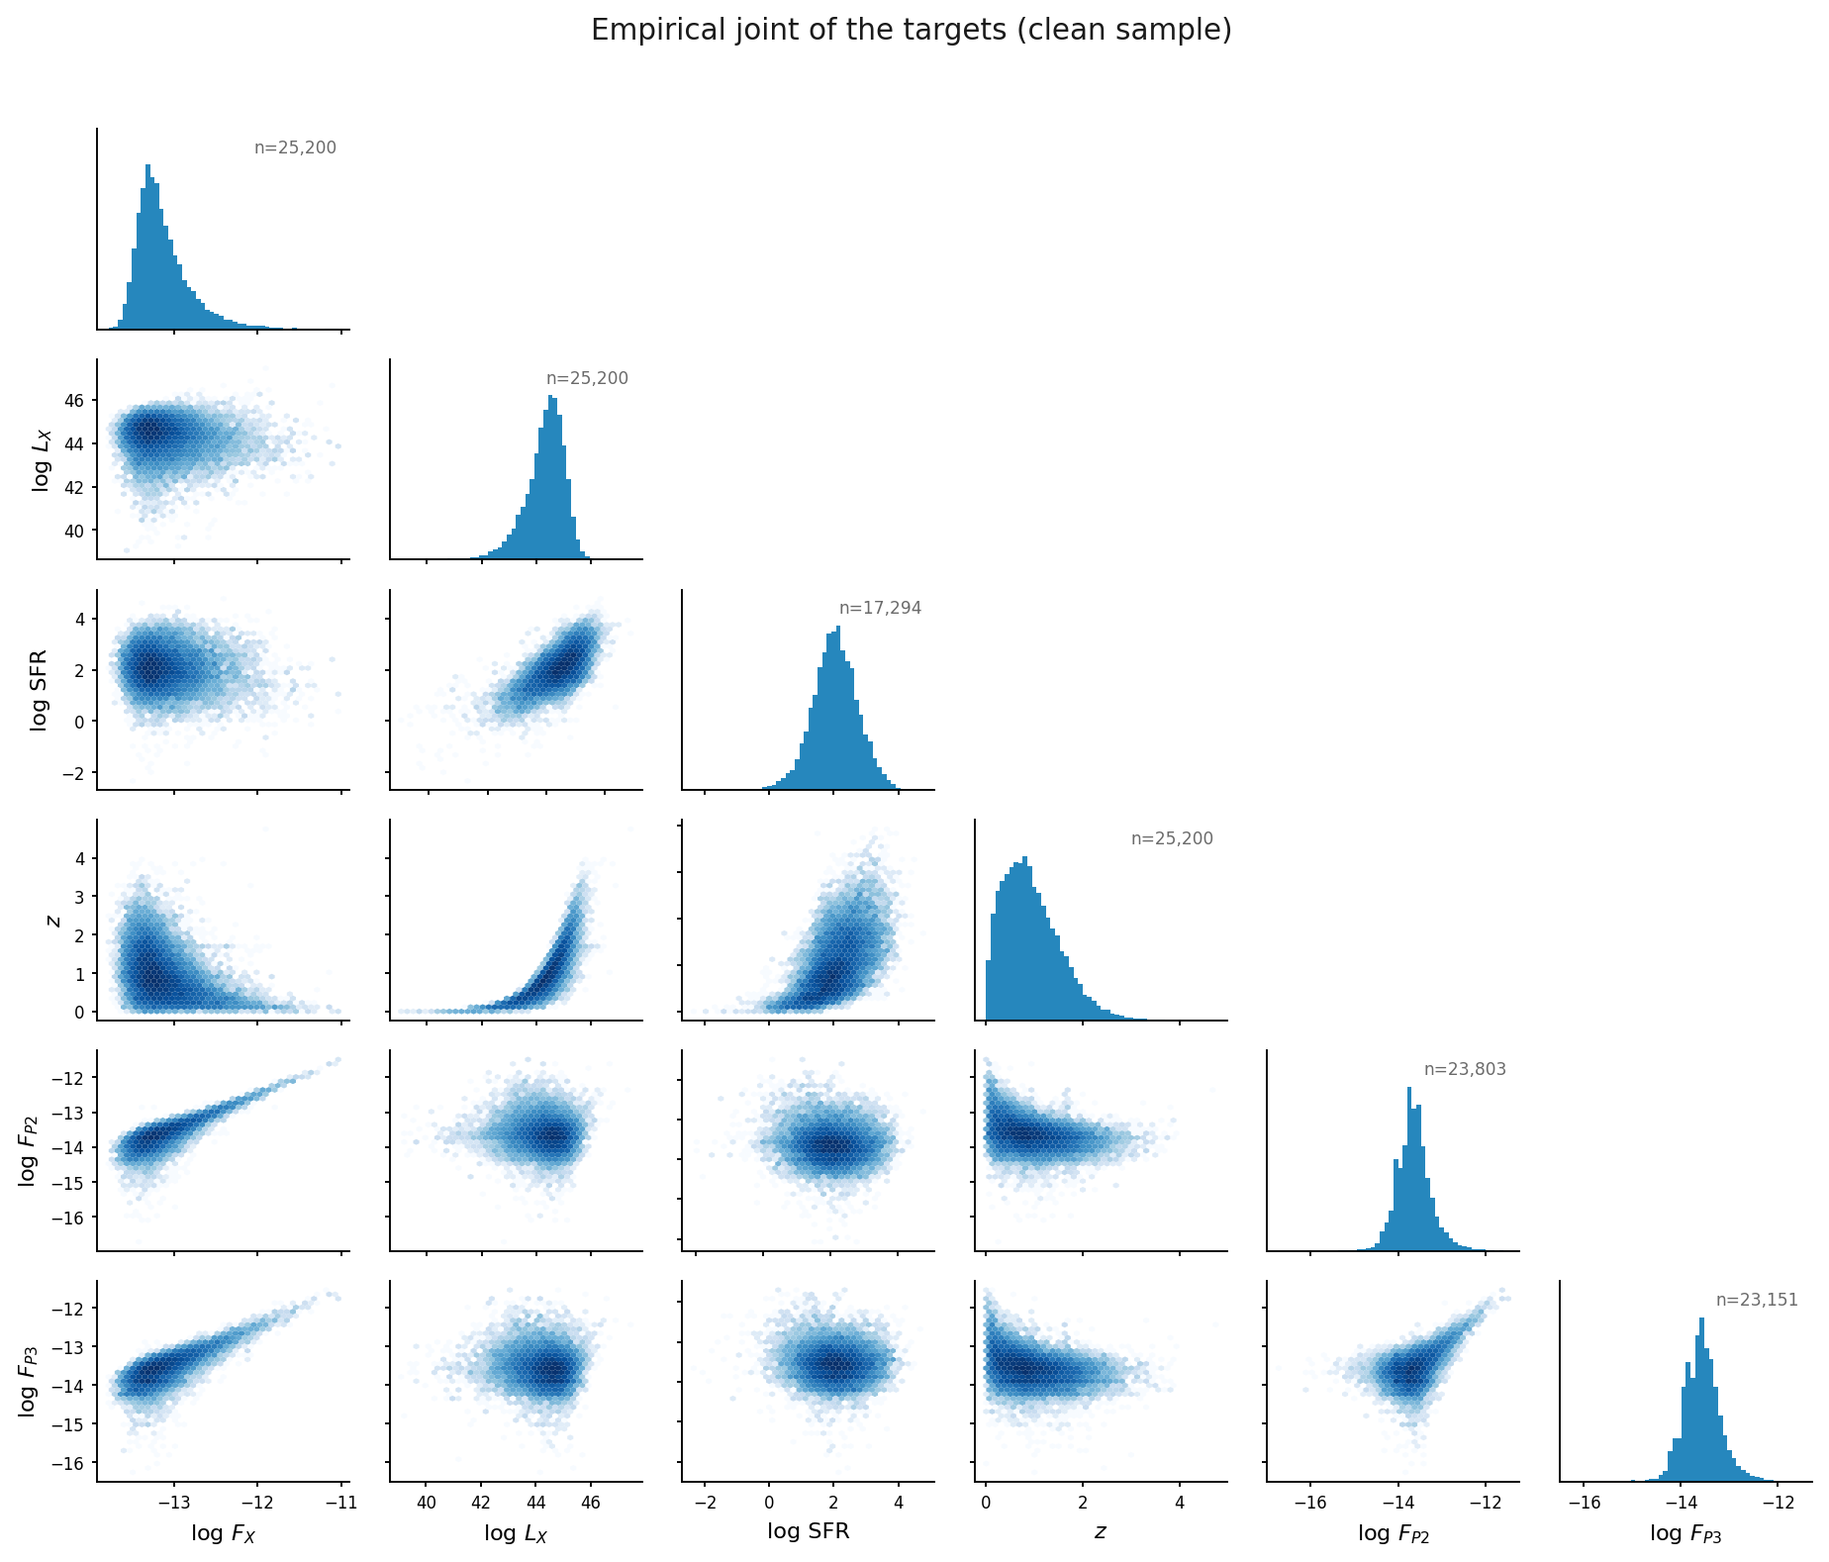
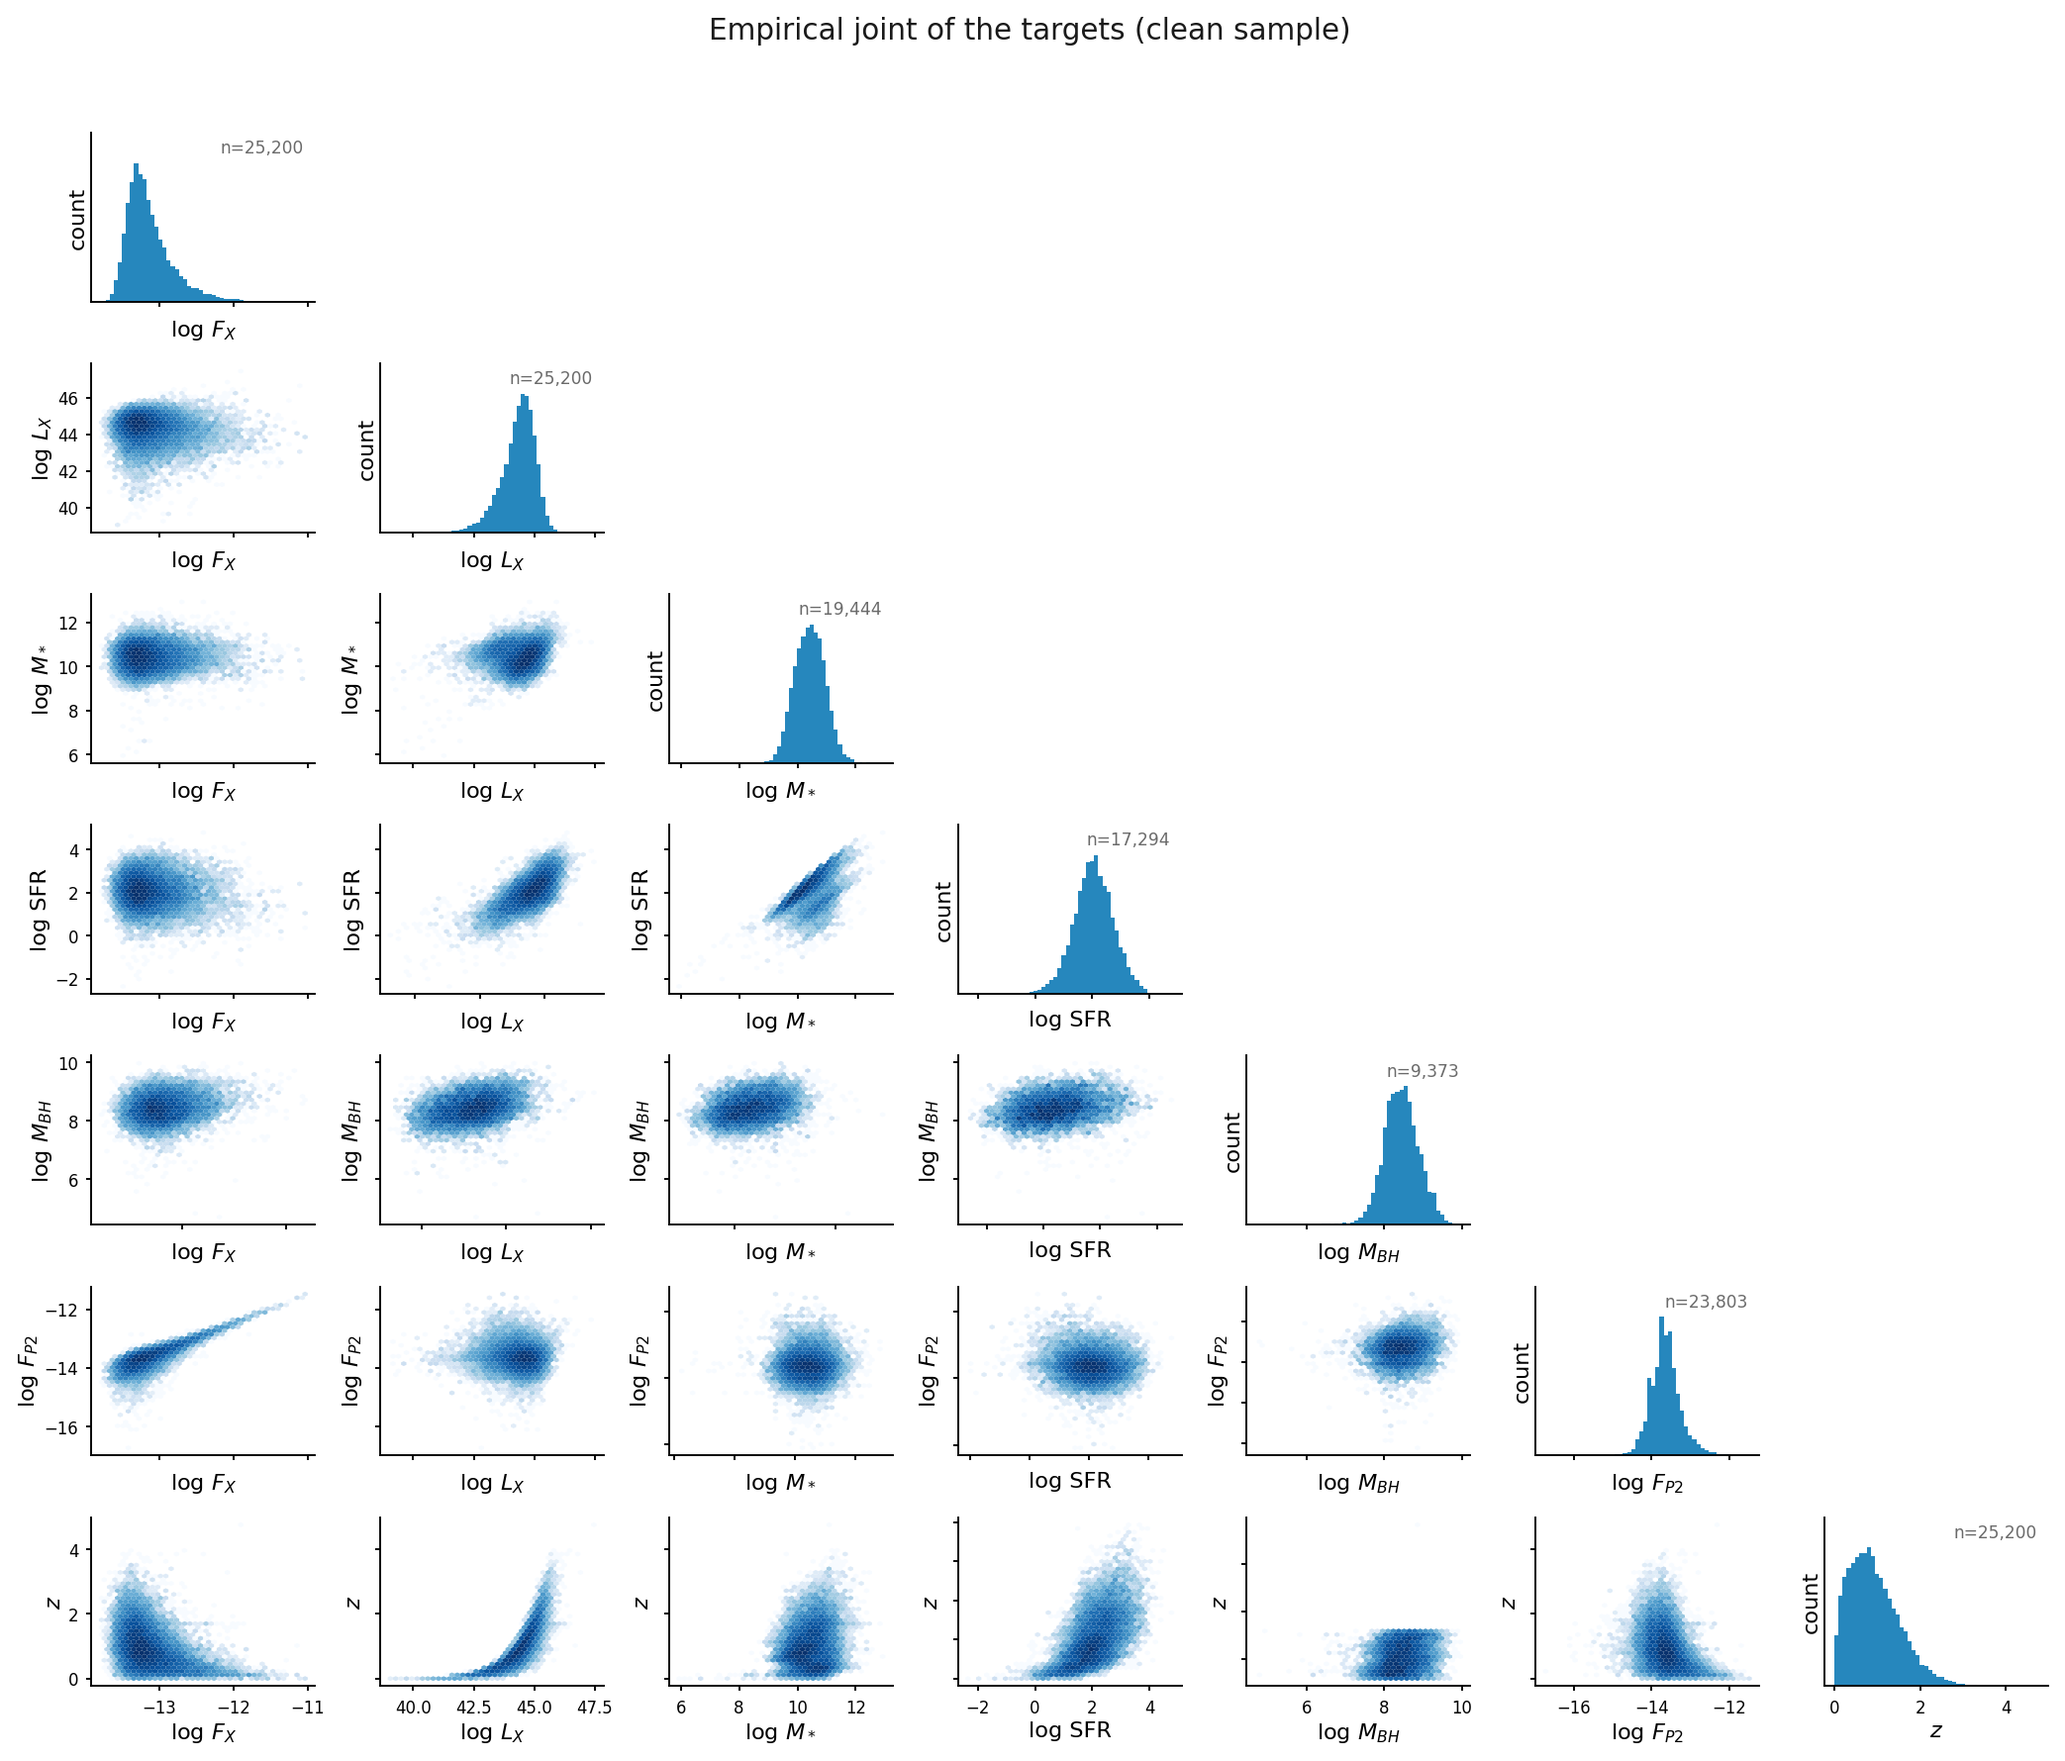
Correct the "flat main sequence" claim; update data slide and corner
The flat main sequence was a cross-catalogue artifact. Slope 0.076 / R2 0.001
came from comparing FastSpecFit's mass against CIGALE's SFR. Both from the same
CIGALE fit gives slope +0.745, R2 0.316, scatter 0.588 dex -- a normal main
sequence, and consistent with the independent Halpha measurement (R2 0.295) that
had been disagreeing with the broken number all along.

That inflates the SFR-vs-mass baseline in run 35828655: the mass-only reference
was 0.008 with FastSpecFit mass but is ~0.32 with CIGALE's, so the head's margin
is ~0.50 rather than ~0.81. The verdict stands, the number does not.

Data slide now shows the current target set with provenance and direct-vs-
computed per row, including both M_BH estimators and sSFR marked as implied
rather than trained. Corner plot gains M*, M_BH, and axis labels on every panel
rather than only the outer edge -- which is how the main-sequence ridge became
visible in the first place.

diff --git a/docs/make_slides.py b/docs/make_slides.py
@@ -226,22 +226,24 @@ def main() -> None:
              "n": f"{n('log_flux_p2', 23803)} / {n('log_flux_p3', 23151)}", "σ": "yes"},
             {"target": "HR32", "catalogue": "eROSITA eRASS1",
              "column / formula": "from the joint (P2,P3) flow", "n": "2,169", "σ": "—"},
-            {"target": "log M★", "catalogue": "FastSpecFit (via agngal)",
-             "column / formula": "LOGMSTAR  (direct)", "n": "25,200", "σ": "no"},
+            {"target": "log M★", "catalogue": "CIGALE (Siudek+2024)",
+             "column / formula": "LOGM  (direct)", "n": n("logmstar_cigale", 19444), "σ": "yes"},
             {"target": "log SFR", "catalogue": "CIGALE (Siudek+2024)",
              "column / formula": "LOGSFR  (direct)", "n": n("log_sfr", 17294), "σ": "yes"},
-            {"target": "log sSFR", "catalogue": "CIGALE (Siudek+2024)",
-             "column / formula": "LOGSFR − LOGM  (computed)", "n": "17,294", "σ": "partial"},
             {"target": "log M$_{BH}$", "catalogue": "qmassiron BH VAC",
-             "column / formula": "LOGMASS_DAS_VO09  (direct)", "n": "9,356", "σ": "yes"},
+             "column / formula": "LOGMASS_DAS_PAN25  (direct)", "n": n("log_mbh_pan25", 9373), "σ": "yes"},
+            {"target": "log M$_{BH}$ (VO09)", "catalogue": "qmassiron BH VAC",
+             "column / formula": "LOGMASS_DAS_VO09  (direct)", "n": "9,366", "σ": "yes"},
+            {"target": "log sSFR", "catalogue": "— not trained —",
+             "column / formula": "implied from the (M★,SFR) joint", "n": "17,294", "σ": "from the joint"},
         ])
-        metric_table(ax, tgt, rect=(0.02, 0.13, 0.96, 0.50), fontsize=11,
+        metric_table(ax, tgt, rect=(0.02, 0.11, 0.96, 0.54), fontsize=10.5,
                      left_align_first=True)
         fig.text(0.045, 0.105,
                  "Every X-ray target is a log of a catalogue column; L$_X$ additionally needs the redshift. "
                  "M★, SFR and M$_{BH}$ are catalogue columns as published.\n"
-                 "sSFR is the only computed target, and only by its definition SFR/M★ — no calibration, "
-                 "both terms from the same fit.",
+                 "M★ and SFR come from ONE fit, so their main sequence is intact (slope +0.745) and sSFR is "
+                 "well defined — it is implied from the joint, never trained.",
                  fontsize=11.5, color=MUTED, va="top")
         pdf.savefig(fig); plt.close(fig)
 

diff --git a/docs/make_data_figures.py b/docs/make_data_figures.py
@@ -29,12 +29,13 @@ from matplotlib.colors import LogNorm  # noqa: E402
 
 INK, MUTED, GRID = "#1a1a1a", "#6a6a6a", "#d8d8d8"
 VARS = [
-    ("log_ml_flux_1", r"log $F_X$"),
-    ("log_lx",        r"log $L_X$"),
-    ("log_sfr",       r"log SFR"),
-    ("z",             r"$z$"),
-    ("log_flux_p2",   r"log $F_{P2}$"),
-    ("log_flux_p3",   r"log $F_{P3}$"),
+    ("log_ml_flux_1",   r"log $F_X$"),
+    ("log_lx",          r"log $L_X$"),
+    ("logmstar_cigale", r"log $M_*$"),
+    ("log_sfr",         r"log SFR"),
+    ("log_mbh_pan25",   r"log $M_{BH}$"),
+    ("log_flux_p2",     r"log $F_{P2}$"),
+    ("z",               r"$z$"),
 ]
 
 
@@ -91,22 +92,23 @@ def draw_corner(fig, data: dict, axes=None, label_size: float = 9.5,
             ax.tick_params(labelsize=tick_size, length=2)
             for sp in ("top", "right"):
                 ax.spines[sp].set_visible(False)
-            if i == k - 1:
-                ax.set_xlabel(lj, fontsize=label_size)
-            else:
+            # every panel is labelled on both axes, not just the outer edge, so
+            # each one can be read on its own without counting rows and columns
+            ax.set_xlabel(lj, fontsize=label_size, labelpad=1.5)
+            ax.set_ylabel(li if i != j else "count", fontsize=label_size, labelpad=1.5)
+            # tick NUMBERS stay on the outside only, or the grid is unreadable
+            if i != k - 1:
                 ax.set_xticklabels([])
-            if j == 0 and i != 0:
-                ax.set_ylabel(li, fontsize=label_size)
-            else:
+            if j != 0 or i == 0:
                 ax.set_yticklabels([])
 
 
 def corner(df: pd.DataFrame, out: Path) -> None:
     data = {n: df[n].to_numpy(float) for n, _ in VARS}
-    fig, axes = plt.subplots(len(VARS), len(VARS), figsize=(11.0, 9.4))
+    fig, axes = plt.subplots(len(VARS), len(VARS), figsize=(12.4, 10.6))
     draw_corner(fig, data, axes=axes)
     fig.suptitle("Empirical joint of the targets (clean sample)", fontsize=12.5, color=INK, y=0.985)
-    fig.tight_layout(rect=(0, 0, 1, 0.965))
+    fig.tight_layout(rect=(0, 0, 1, 0.965), h_pad=0.7, w_pad=0.7)
     fig.savefig(out, dpi=170, bbox_inches="tight")
     plt.close(fig)
     print(f"wrote {out}")

diff --git a/docs/decisions.md b/docs/decisions.md
@@ -858,3 +858,30 @@ matters about as much as the measurement does.
 
 *Head set:* 9 scalar + the P2xP3 joint = 10, with `log_flux_p4` and `logmstar`
 dropped by default. Sidecar `targets_sidecar.csv` is 39 columns / 12 MB.
+
+**CORRECTION: the "flat main sequence" was a cross-catalogue artifact
+(2026-07-29).** The 2026-07-28 SFR entry above records the star-forming main
+sequence as nearly flat on this sample — `logSFR = 0.076*logM* + 1.233`, R² 0.001
+— and attributes it to AGN-compromised CIGALE fits. **That is wrong.** It
+compared **FastSpecFit's** `logmstar` against **CIGALE's** `LOGSFR`: two
+different SED fits. With both taken from the same CIGALE fit the relation is
+normal: **slope +0.745, corr +0.562, R² 0.316, scatter 0.588 dex** on 17,294
+sources, inside the literature 0.7–1.0 range.
+
+It also resolves a disagreement that should have been caught earlier: the
+independent Halpha-based measurement (R² 0.295 on 536 BPT star-forming sources)
+never matched the 0.007 cross-catalogue number, and it was the cross-catalogue
+number that was broken.
+
+Consequences:
+- **`eval/sfr_vs_mass_baseline.csv` from run 35828655 is inflated.** It reported
+  the SFR head at R² 0.815 against a mass-only baseline of 0.008, using
+  FastSpecFit mass. Against `logmstar_cigale` a mass-only predictor reaches
+  ~0.32, so the margin is ~0.50, not ~0.81. The verdict (the head is measuring
+  SFR, not mass) survives; the number does not. The check must be recomputed
+  against the CIGALE mass.
+- The earlier estimate of R²(sSFR) ~ 0.79 assumed zero covariance and is void.
+  Measured sd(log sSFR) = 0.604 dex, NARROWER than sd(log SFR) = 0.711, because
+  the correlation suppresses it.
+- This is the strongest argument for the CIGALE switch: mixing fits did not just
+  make sSFR ill-defined, it destroyed a real physical relation.

diff --git a/docs/targets.md b/docs/targets.md
@@ -50,12 +50,20 @@ are typically anti-correlated — attributing more light to young stars raises S
 and lowers M★ — so treating them as independent would understate the uncertainty,
 not overstate it.
 
-**sSFR value caution.** Median log sSFR is **−8.15** yr⁻¹, whereas normal
-star-forming galaxies sit at −9 to −10. Implausibly high, consistent with AGN
-light being counted as star formation. Relatedly, the star-forming main sequence
-fitted on our training sample has slope **0.076** (R² 0.001) against a literature
-0.7–1.0 — flat, because CIGALE's M★ and SFR are both AGN-compromised here. Read
-that as a warning about the labels, not a result about galaxies.
+**The main sequence is NOT flat — corrected 2026-07-29.** An earlier note here
+claimed slope 0.076 (R² 0.001) and blamed AGN contamination. That was a
+cross-catalogue artifact: it compared **FastSpecFit's** mass against **CIGALE's**
+SFR. With both from the same CIGALE fit the relation is entirely normal —
+**slope +0.745, R² 0.316, scatter 0.588 dex**, squarely in the literature 0.7–1.0
+range. This also reconciles the independent Hα measurement (R² 0.295 on 536
+star-forming sources), which had been disagreeing with the broken number all
+along. It is the clearest argument for taking mass and SFR from one fit.
+
+**sSFR value caution (this one stands).** Median log sSFR is **−8.15** yr⁻¹ where
+normal star-forming galaxies sit at −9 to −10 — implausibly high, consistent with
+AGN light being counted as star formation. That is about absolute values, not the
+relation. Measured sd of log sSFR is 0.604 dex, *narrower* than log SFR's 0.711,
+because the correlation suppresses it.
 
 ---
 
